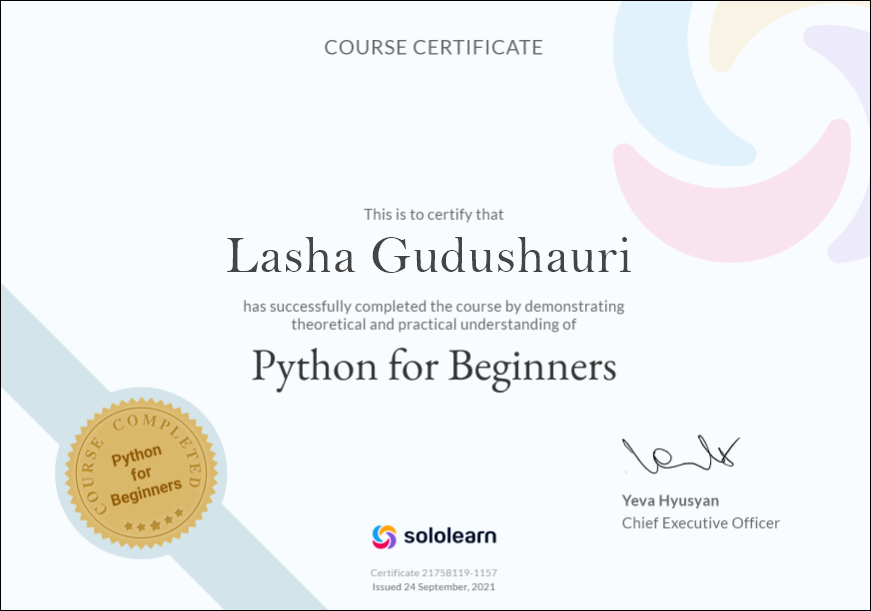
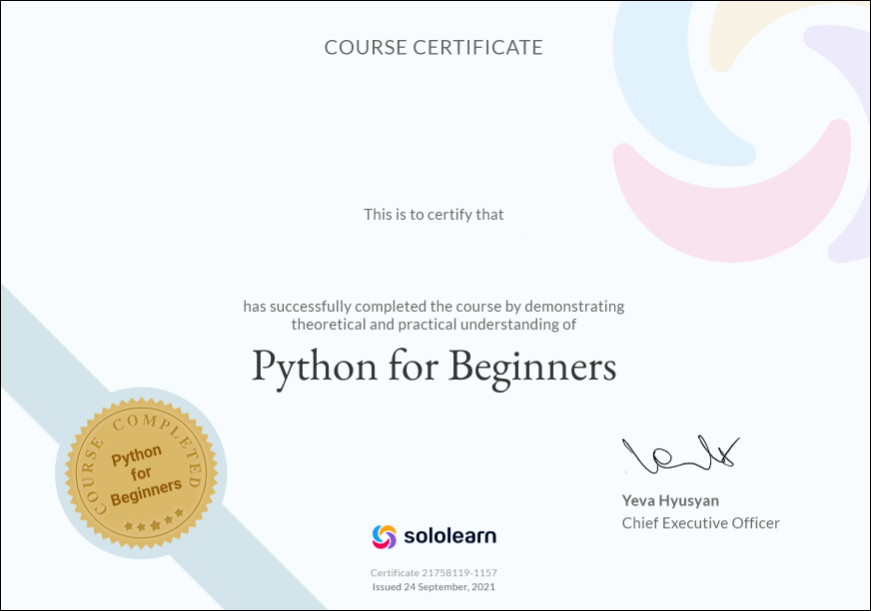
docs: update index

Changed region(s): [[0.248, 0.3732, 0.744, 0.4664]]

diff --git a/index.html b/index.html
@@ -40,7 +40,7 @@
                 <div class="main__main">
                     <section class="section__main" id="photo">
                         <img title="Lasha Gudushauri" class="avatar" src="img/gif.gif" alt="avatar">
-                        <h1 class="title__main">Lasha Gudushauri</h1>
+                        <h1 class="title__main">Name Surname</h1>
                     </section>
                     <section class="section" id="Contacts">
                         <h2 class="title ab">CONTACTS</h2>
@@ -48,12 +48,12 @@
                             <li class="li__itemss llb">
                                 <a class="li__links ll" href="#">
                                     <i class="fa-solid fa-headset "></i>
-                                    +995 595 70 74 74</a>
+                                    Phone Number</a>
                             </li>
                             <li class="li__itemss llc">
                                 <a class="li__links" href="#">
                                     <i class="fa-solid fa-envelopes-bulk"></i>
-                                    ghudushaurilasha@gmail.com</a>
+                                    Email</a>
                             </li>
                             <li class="li__itemss">
                                 <a class="li__links" href="#">
@@ -114,13 +114,11 @@
                         <h2 class="title ed">Education</h2>
                         <ul class="ul">
                             <li class="li__itemsss">
-                                <a href="#">2000-2012 Guram Devdariani Author's 
-                                                            School of Physics and Maths,Tbilisi</a>
+                                <a href="#">2000-2012 "Lorem ipsum dolor sit amet, consectetur adipiscing elit </a>
                             </li>
                             <li class="li__itemsss">
                                 <a href="#">2012-2016 Bachelor
-                                                            of Social Sciences with a major in Mass Comunication, 
-                                                            Grigol Robakidze University,Tbilisi</a>
+                                    "Lorem ipsum dolor sit amet, consectetur adipiscing elit, sed do eiusmod tempor incididunt ut labore et dolore magna aliqua. Ut enim ad minim veniam,</a>
                             </li>
                         </ul>
                     </section>
@@ -140,7 +138,7 @@
                             <li class="li__itemss">
                                 <a href="#">
                                     <i class="fa-solid fa-earth-americas"></i>
-                                    GEORGIAN
+                                    Arabic -- B2
                                 </a>
                             </li>
                             <li class="li__itemss">
@@ -158,11 +156,11 @@
         <div class="sertificate">
             <div class="container">
                 <div class="photos">
-                    <img class="sert m" src="img/sertificate.png" alt="sertificate">
-                    <img class="sert n" src="img/sertificate2.png" alt="sertificate2">
+                    <img class="sert m" src="img/award2.png" alt="aword">
+                    <img class="sert n" src="img/award2.png" alt="aword">
                     <img class="sert o" src="img/award2.png" alt="award">
-                    <img class="sert p" src="img/award36.png" alt="award">
-                    <img class="sert q" src="img/award5.png" alt="award">
+                    <img class="sert p" src="img/award2.png" alt="award">
+                    <img class="sert q" src="img/award2.png" alt="award">
                 </div>
             </div>
         </div>
@@ -170,7 +168,7 @@
             <div class="container">
                 <div class="footer__inner">
                     <h4 class="title__footer">
-                        Site (CV) made by Lasha Gudushauri</h4>
+                        Site (CV) made by ''Your Name''</h4>
                 </div>
             </div>
         </footer>

diff --git a/readme.md b/readme.md
@@ -1,2 +1,2 @@
-not my Cv. Made Cv for L.G
+CV example
 https://maryyyat.github.io/notMyCv/
